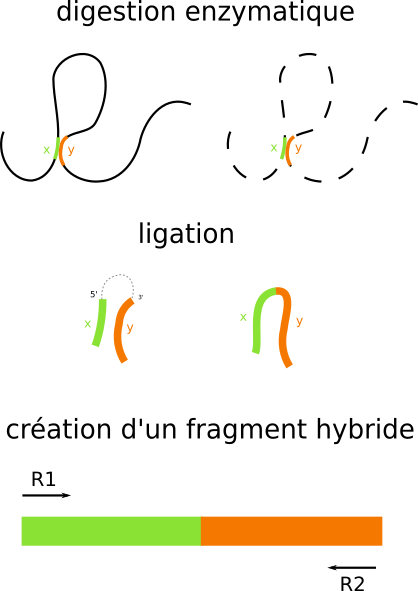
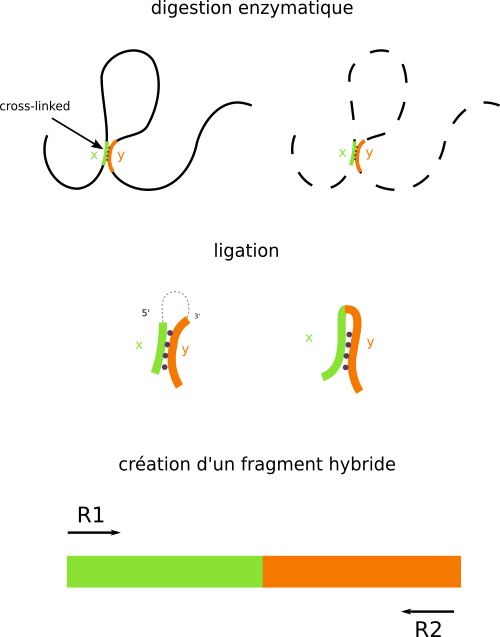
ajout conclusion

diff --git a/content/tad.md b/content/tad.md
@@ -1,18 +1,18 @@
-Title: Les T.A.D et l'organisation spatiale du génome
+Title: Les TADs et l'organisation spatiale du génome
 Slug: tad
 Date: 2018-03-27 21:51:09
-Modified: 2018-03-27 21:51:09
-Tags: 
-Category: 
+Modified: 2018-05-07 19:32:01
+Tags: tads,ngs,hi-c
+Category: biologie
 Author: Sacha schutz
 Summary: 
 Status: Draft
 
-Pendant la [mitose](https://fr.wikipedia.org/wiki/Mitose), l'ADN des cellules [eucaryotes](https://fr.wikipedia.org/wiki/Eukaryota) est bien  organisé sous la forme de chromosomes. Alors que le reste du temps, pendant l'[interphase](https://fr.wikipedia.org/wiki/Interphase), ce qu'on appelle la [chromatine](https://fr.wikipedia.org/wiki/Chromatine) ressemble davantage à une boule de spaghetti désorganisée et emmêlée de façon aléatoire.    
-Aujourd'hui, les technologies de [Chromatin Conformation Capture](https://en.wikipedia.org/wiki/Chromosome_conformation_capture) nous révèlent l'organisation spatiale de cette chromatine qui est en réalité loin d'être aléatoire, mais plutôt organiser de façon fonctionnelle. C'est ce que nous allons découvrir tout de suite avec les [T.A.D](https://en.wikipedia.org/wiki/Topologically_associating_domain) (Topology Assocation Domain).
+Lors de la [mitose](https://fr.wikipedia.org/wiki/Mitose), l'ADN des cellules [eucaryotes](https://fr.wikipedia.org/wiki/Eukaryota) s'organise en [chromosomes](https://fr.wikipedia.org/wiki/Chromosome) condensés et bien délimités. C'est l'image que nous avons tous d'un chromosome. Mais le reste du temps, pendant l'[interphase](https://fr.wikipedia.org/wiki/Interphase), ces chromosomes ressemblent davantage à une boule de spaghetti emmêlée dans tous les sens: Ce qu'on appelle la [chromatine](https://fr.wikipedia.org/wiki/Chromatine).   
+Aujourd'hui, les technologies de [Capture de Conformation des Chromosomes](https://en.wikipedia.org/wiki/Chromosome_conformation_capture) nous révèlent l'organisation spatiale de cette chromatine, qui en réalité semble être loin de l'anarchie mais plutôt organisé de façon fonctionnelle. C'est ce que nous allons découvrir tout de suite avec les [TADs](https://en.wikipedia.org/wiki/Topologically_associating_domain) (Topology Assocation Domain).
 
-## Capturer la conformation de la chromatine
-Il existe toute une série de nouvelle technologie permettant d'évaluer l'organisation spatiale du génome pendant l'interphase. C'est la [Capture de Conformation de la Chromatine (Chromatin Conformation Capture)](https://en.wikipedia.org/wiki/Chromosome_conformation_capture) . Cette méthode se décline sous plusieurs formes que vous trouverez sous le nom de [(3C,4C,5C,HiC,ChiA-PET)](https://en.wikipedia.org/wiki/Chromosome_conformation_capture#Original_methods). Elle repose toutes sur le même principe qui est d'identifier sur la chromatine, des régions en contact physique.   
+## Analyser l'organisation spatiale de la chromatine
+Il existe toute une famille de technologies permettant d'évaluer l'organisation spatiale des chromosomes au moment de l'interphase. C'est la [Capture de Conformation des chromosomes (Chromosom Conformation Capture)](https://en.wikipedia.org/wiki/Chromosome_conformation_capture). Cette méthode se décline sous plusieurs formes que vous trouverez sous le nom de [(3C,4C,5C,HiC,ChiA-PET)](https://en.wikipedia.org/wiki/Chromosome_conformation_capture#Original_methods). Elles reposent toutes sur le même principe qui est d'identifier sur la chromatine, des régions en contact physique. 
 Imaginez la chromatine, comme un long ruban d'ADN, formant plein de boucles en se repliant sur elle même. Par ces technologies, vous allez pouvoir savoir qu'une région **x** de ce ruban est en contact physique avec une autre région **y**.   
 
 
@@ -24,73 +24,89 @@ Imaginez la chromatine, comme un long ruban d'ADN, formant plein de boucles en s
 
 ### Comment ça fonctionne ? 
 L'idée générale consiste à capturer les deux régions d'ADN en contact (**x** et **y**) et construire un fragment d'ADN hybride contenant le fragment **x** à une extrémité et le fragment **y** de l'autre (Figure 2). Ce fragment hybride est alors identifié par différents techniques de biologie moléculaire.            
-Tout d'abord, les régions de contact sont figées en créant des liaisons covalentes grâce à du [formaldéhyde](https://en.wikipedia.org/wiki/Formaldehyde). C'est l'étape du *cross-linking*. L'ADN est ensuite digéré avec des [enzymes de restriction](https://fr.wikipedia.org/wiki/Enzyme_de_restriction) pour ne garder que les régions de contact. On réalise alors une [ligation](https://fr.wikipedia.org/wiki/Ligase) des extrémités du cross-link pour obtenir des fragments d'ADN hybrides.  
-Ces fragments sont identifiés par différentes méthodes de biologie moléculaire. C'est ce qui fait la spécifiée de la méthode. Par exemple, la méthode 3C est une simple [PCR](https://fr.wikipedia.org/wiki/R%C3%A9action_en_cha%C3%AEne_par_polym%C3%A9rase) tandis que la méthode [Hi-C](https://en.wikipedia.org/wiki/Chromosome_conformation_capture#Hi-C_(all-vs-all)) est un [séquençage haut débit (voir mon billet)](ngs.html) d'un ensemble de fragments obtenus à partir d'un génome. C'est cette dernière que je vais détailler.
+Tout d'abord, les régions de contact sont figées en créant des liaisons covalentes grâce à du [formaldéhyde](https://en.wikipedia.org/wiki/Formaldehyde). C'est l'étape du *cross-linking*. L'ADN est ensuite digéré avec des [enzymes de restriction](https://fr.wikipedia.org/wiki/Enzyme_de_restriction) pour ne garder que les régions de contact. On réalise alors une [ligation](https://fr.wikipedia.org/wiki/Ligase) des extrémités du cross-link pour obtenir des fragments d'ADN hybrides. 
+Ces fragments peuvent alors être identifiés par les différentes méthodes de biologie moléculaire. Par exemple, la méthode 3C est une simple [PCR](https://fr.wikipedia.org/wiki/R%C3%A9action_en_cha%C3%AEne_par_polym%C3%A9rase) tandis que la méthode [Hi-C](https://en.wikipedia.org/wiki/Chromosome_conformation_capture#Hi-C_(all-vs-all)) est un [séquençage haut débit](ngs.html) de l' ensemble de fragments hybrides obtenus à partir d'un génome. C'est cette dernière que je vais détailler.
 
 <div class="figure">
     <img src="../images/tad/methode.png" />
-    <div class="legend">Figure 2. D'abord fixation des régions de contact avec du formaldéhyde puis digestion de l'ADN. Grâce à une ligase, un fragment hybride est construit qui pourra être séquencer en <a href="ngs.html">NGS</a>. Lors d'un séquençage <a href="https://www.illumina.com/science/technology/next-generation-sequencing/paired-end-vs-single-read-sequencing.html">illumina paired-end</a>, le read R1 correspondra à la région x et le read R2 à la région y.</div>
+    <div class="legend">Figure 2. Fixation des régions de contact avec du formaldéhyde (crosslinking) puis digestion de l'ADN avec une enzyme de restriction. Grâce à une ligase, les deux extrémité du cross-link sont reliés. Après un reverse crosslinking, le fragment hybride est obtenue. Celui-ci va pouvoir être séquencé en paired-end sur de  <a href="https://www.illumina.com/science/technology/next-generation-sequencing/paired-end-vs-single-read-sequencing.html">l'Illumina</a>. Le read R1 correspondra à la région x et le read R2 à la région y.</div>
 </div>
 
 
-### Methode Hi-C
-À partir de la méthode décrite ci-dessous, on va pouvoir créer une [libraire](ngs.html) de séquençage. C'est-à-dire générer un ensemble de fragments hybrides correspondant à l'ensemble des zones de contact de la chromatine. Cette librairie peut alors être séquencée sur [Illumina](https://fr.wikipedia.org/wiki/Illumina) qui a comme particularité de faire du [séquençage en paire](https://www.france-genomique.org/spip/spip.php?article235) *(paired-end)*. C'est-à-dire pouvoir lire un fragment d'ADN des deux côtés. Et c'est là tout l'intérêt. Pour chaque fragment d'ADN lu, nous obtenons une paire de read **R1** et **R2** correspondant aux deux régions de contact **x** et **y** (Figure 2). chaque read est aligné indépendamment sur un génome de référence afin de leurs attribué des [coordonnées génomiques](naviguer-dans-votre-adn.html). Et connaissant les pairs, nous pouvons enfin savoir si une région **x** et un contact avec une région **y**.
+### Méthode Hi-C
+À partir de la méthode décrite ci-dessous, on va pouvoir créer une [libraire](ngs.html) de séquençage. C'est-à-dire générer un ensemble de fragments hybrides correspondant à l'ensemble des zones de contact de la chromatine. Cette librairie peut alors être lu sur un séquenceur [Illumina](https://fr.wikipedia.org/wiki/Illumina) qui a la particularité de faire du [séquençage en paire](https://www.france-genomique.org/spip/spip.php?article235) *(paired-end)*. C'est-à-dire pouvoir lire un fragment d'ADN dans les deux sens. Pour chaque fragment d'ADN lu, nous obtenons une paire de read **R1** et **R2** qui correspondent aux deux régions de contact **x** et **y** (Figure 2). On aligne alors ces reads sur [le génome de référence](naviguer-dans-votre-adn.html) afin de leurs attribuer des coordonnées génomique. Et connaissant les pairs de reads, nous pouvons enfin savoir si une région **x** et un contact avec une région **y**.   
 Par exemple, si dans nos données, il existe un read **R1** s'alignant sur le gène *A* et un read **R2** s'alignant sur le gène *B*, nous pouvons "conclure" qu'il y a interaction entre le gène *A* et le gène *B*. 
 
 
 ### Visualiser les données Hi-C
-Pour représenter l'ensemble des régions de contact provenant d'une expérience Hi-C, on utilise une carte de chaleur ([heatmap](https://en.wikipedia.org/wiki/Heat_map)). Cette matrice a comme dimensions des régions chromosomiques de taille fixe et comme valeur le nombre de paires de reads observées entre deux régions. Plus la couleur d'une cellule est rouge, et plus il y a d'interaction entre les deux régions correspondant à cette cellule.   
-La figure 3 gauche, montre comment construire une *heatmap* pour un chromosome. La figure 3 droite,  montre une *heatmap* sur des données réelles Hi-C pour le chromosome 14. La diagonale rouge vif signifie que les régions très proches dans la séquence, sont en contact physique, ce qui semble logique. Notons par ailleurs que la matrice est symétrique. En effet, "**x**" interagit avec "**y**", c'est la même chose qu’"**y**" interagit avec "**x**". Pour cette raison, on préfère représenter la moitié de la matrice sous forme d'un triangle (figure 4).
+Pour représenter l'ensemble des régions de contact provenant d'une expérience Hi-C, on utilise une carte de chaleur ([heatmap](https://en.wikipedia.org/wiki/Heat_map)). Cette carte est une matrice n x n montrant le nombre d'interaction entre deux positions donnée du même chromosome. La technologie ne permettant pas d'avoir une résolution à la base exacte, les positions sont des intervalles de taille fixe. 
+La valeur de chaque cellule est le nombre de paires de reads entre deux positions données. Plus la couleur d'une cellule est rouge, et plus il y a d'interaction entre les deux positions correspondant à cette cellule.   
+La figure 3 gauche, montre comment construire une *heatmap* pour un chromosome. La figure 3 droite,  montre une *heatmap* sur des données réelles Hi-C pour le chromosome 14. La diagonale rouge vif signifie que les régions très proches dans la séquence, sont en contact physique, ce qui semble logique. Notons par ailleurs que la matrice est symétrique. En effet, "**x**" interagit avec "**y**", est équivalent à "**y**" interagit avec "**x**". Pour cette raison, on préfère représenter les données Hi-C par une demi *heatmap*, ce qui donne un triangle (figure 4).
 
 
 <div class="figure">
     <img src="../images/tad/tad_correlation_matrix.png" />
-    <div class="legend">Figure 3. Gauche: Le chromosome est découpé en région de taille fixe. Après alignement, chaque read est associé à une région. On comptabilise alors le nombre de paires existants pour deux régions données. Droite: Donnée réelle Hi-C sur le chromosome 14. Notez la symétrie de la matrice autour de la diagonale ainsi qu'une allure en damier. </div>
+    <div class="legend">Figure 3. Gauche: Le chromosome est découpé en intervalle de taille fixe. Après alignement, chaque read est associé à un intervalle. On comptabilise alors le nombre de paires existants pour deux intervalles données. Sur la figure de gauche, il y a 2 paires entre les deux extrémités "p" et une paire entre l'extrémité "p" et "q". Droite: Donnée réelle Hi-C sur le chromosome 14. Notez la symétrie de la matrice autour de la diagonale ainsi qu'une allure en damier. </div>
 </div>
 
-##  Mise en évidence des TADs
+##  Les TADs
 
-En regardant la matrice de plus près (Figure 4), des triangles d'allure fractale ressortent clairement. Ces triangles correspondent à un ensemble de régions qui interagissent tous ensemble mais qui sont isolées du reste. Ces domaines, ce sont nos fameux [TAD (Topologically associating domain)](https://en.wikipedia.org/wiki/Topologically_associating_domain). Imaginez-les comme des boules de noeud sur notre ruban D'ADN. Chaque noeud contient des régions qui interagissent avec les autres régions de ce même noeud.
+En regardant la matrice de plus près (Figure 4), des triangles d'allure fractale ressortent clairement. Ces triangles correspondent à un ensemble de régions qui interagissent tous ensemble mais qui sont isolées du reste. Ces domaines, ce sont nos fameux [TAD (Topologically associating domain)](https://en.wikipedia.org/wiki/Topologically_associating_domain). Imaginez-les comme des boules de noeud sur notre ruban D'ADN. Chaque noeud contient des régions qui interagissent avec les autres régions de ce même noeud. Deux TADs sont magnifiquement illustrés par mes soins en bas de la figure 4.
 
 <div class="figure">
     <img src="../images/tad/tad_ex.png" />
-    <div class="legend">Figure 4. La région x,y et z sont à egal distance l'un de l'autre. Cependant x et y appartiennent au même TAD tandis que z appartient à un autre différent. </div>
+    <div class="legend">Figure 4. Visualisation d'une région du chromosome 3. Les TADs sont des domaines qui interagissent et sont observés ici par des triangles rouges. Sur cette figure, la région x,y et z sont à egal distance l'un de l'autre. Cependant x et y appartiennent au même TAD tandis que z appartient à un autre différent. </div>
 </div>
 
 
-### La fonction des TADs 
-Aujourd'hui, la fonction des [TAD](https://en.wikipedia.org/wiki/Topologically_associating_domain) n'est pas totalement élucidée. Mais il est clair qu'ils jouent un rôle important dans la [régulation de l'expression des gènes](https://fr.wikipedia.org/wiki/R%C3%A9gulation_de_l%27expression_des_g%C3%A8nes). Nous savons depuis longtemps que les gènes sont régulés par des séquences [promotrices](https://fr.wikipedia.org/wiki/Promoteur_(biologie)) situées amont des gènes. Mais il existe aussi des régions très éloignées du gène qui peuvent moduler la transcription. Ce sont les [amplificateurs (enhancers)](https://fr.wikipedia.org/wiki/Amplificateur_(biologie)) et les [inactivateurs (silencers)](https://fr.wikipedia.org/wiki/Inactivateur) qui respectivement activent ou répriment la [transcription](https://fr.wikipedia.org/wiki/Transcription_(biologie)). Par exemple, en repliant l'ADN dans l'espace, l'enhancer et le promoteur vont pouvoir interagir et moduler la transcription.   
+### Fonction des TADs 
+Aujourd'hui, la fonction des [TAD](https://en.wikipedia.org/wiki/Topologically_associating_domain) n'est pas totalement élucidée. Mais il est clair qu'ils jouent un rôle important dans la [régulation de l'expression des gènes](https://fr.wikipedia.org/wiki/R%C3%A9gulation_de_l%27expression_des_g%C3%A8nes). Nous savons depuis longtemps que les gènes sont régulés par des séquences [promotrices](https://fr.wikipedia.org/wiki/Promoteur_(biologie)) situées en amont des gènes. Mais il existe aussi des régions très éloignées du gène qui peuvent moduler la transcription. Ce sont les [amplificateurs (enhancers)](https://fr.wikipedia.org/wiki/Amplificateur_(biologie)) et les [inactivateurs (silencers)](https://fr.wikipedia.org/wiki/Inactivateur) qui respectivement activent ou répriment la [transcription](https://fr.wikipedia.org/wiki/Transcription_(biologie)). Par exemple, en repliant l'ADN dans l'espace, l'enhancer et le promoteur vont pouvoir interagir et moduler la transcription (Figure 5).   
 
 <div class="figure">
     <img src="../images/tad/regulation.png" />
     <div class="legend">Figure 5. Schéma de la régulation de la transcription via les amplificateurs. En se répliant, l'ADN met en contact l'amplificateur et le promoteur d'un gène</div>
 </div>
 
-Il est alors évident que pour agir, un amplificateur doit se situer dans le même TAD que ses gènes cibles. Plusieurs gènes au sein du même T.A.D peuvent ainsi être corrégulés par le même amplificateur.   
+Il est alors évident que pour agir, un amplificateur doit se situer dans le même TAD que ses gènes cibles. Plusieurs gènes au sein du même TAD peuvent ainsi être corrégulés par le même amplificateur.   
 
 <div class="figure">
     <img src="../images/tad/regulation_tad.png" />
     <div class="legend">Figure 6. Un amplificateur peut interagir avec les gènes de son TAD mais pas avec un autre. </div>
 </div>
 
-Une autre région importante dans la régulation est l'[isolateur (insulator)](https://fr.wikipedia.org/wiki/Isolateur_(biologie)) qui se situe entre deux TAD en empéchant leurs fusions. Une étude a par exemple montré qu'une délétion dans un insulator est responsable de la fusion de deux TAD en un seul. Les enhancers du premier TAD sont ainsi capable d'interagir avec un gènes du deuxième TAD. Ce qui entraine sa surexpression et une maladie chez le porteur.
+Une autre région importante dans la régulation est [l'isolateur (insulator)](https://fr.wikipedia.org/wiki/Isolateur_(biologie)) qui se situe entre deux TAD en empêchant leurs fusions. Une [étude](https://www.ncbi.nlm.nih.gov/pubmed/25701871) a par exemple montré qu'une délétion dans un isolateur est responsable de la fusion de deux TADs en un seul. Les deux noeuds bien distincts ne forment plus qu'un seul gros noeuds. Les enhancers du premier TAD sont alors capable d'interagir avec un gènes du deuxième TAD. Ce qui entraîne sa surexpression qui est délétère pour l'organisme. 
 
-### La formation des TADs
+### Formation des TADs
 La formation des TADs a été récemment mise en évidence en validant le modèle de [Loop extrusion](https://www.sciencedirect.com/science/article/pii/S2211124716305307). Ce mécanisme fait intervenir la [cohésine](https://fr.wikipedia.org/wiki/Coh%C3%A9sine) et les protéines [CTCF](https://fr.wikipedia.org/wiki/CTCF) qui reconnaissent des motifs autour des TADs, et font glisser la chromatine au travers d'anneau. Les deux vidéos suivantes vous montrent clairement la formation de ces structures.
 
 <div class="figure">
     <iframe width="560" height="315" src="https://www.youtube.com/embed/Tn5qgEqWgW8?start=23" frameborder="0" allow="autoplay; encrypted-media" allowfullscreen></iframe>
-    <div class="legend">Dans la figure ci-dessous la région x,y et z sont à egal distance l'un de l'autre. Cependant x et y appartiennent au même TAD tandis que z appartient à un autre. </div>
+    <div class="legend"> Simulation du modèle Loop extrusion </div>
 </div>
 
 
 <div class="figure">
 <iframe width="560" height="315" src="https://www.youtube.com/embed/47v3RLfLXho" frameborder="0" allow="autoplay; encrypted-media" allowfullscreen></iframe>
-    <div class="legend">Dans la figure ci-dessous la région x,y et z sont à egal distance l'un de l'autre. Cependant x et y appartiennent au même TAD tandis que z appartient à un autre. </div>
+    <div class="legend"> Visualisation de Loop extrusion temps-réel  </div>
 </div>
 
 
-https://bioinfo-fr.net/hi-c-explication-des-bases
-http://atlasgeneticsoncology.org/Educ/ArchitectChromatinID30016FS.html
-https://www.ncbi.nlm.nih.gov/pmc/articles/PMC3874846/figure/F1/
-https://www.ncbi.nlm.nih.gov/pmc/articles/PMC3874846/
+## Conclusion 
+La découverte d'une organisation spatiale de la chromatine a changé notre vision du génome. Les chromosomes étaient le support rigide de l'information génétique. Ils sont maintenant les acteurs d'une régulation fine contrôlé par l'épigénétique. L'exploration dans ce domaine nous permettra de mieux comprendre le fonctionnement du génome dans son intégralité, et justifiera certainement le séquençage complet des patients atteints de maladies génétiques.
+
+epigéniétuqe
+sequencage genome complet 
+genome dynamique
+organisation spatial du genome
+
+
+
+
+## Références
+* [La thèse d'un collègue ](https://dumas.ccsd.cnrs.fr/dumas-01628629/document)
+* [Analysis methods for studying the 3D architecture of the genome](https://www.ncbi.nlm.nih.gov/pmc/articles/PMC4556012/)
+* [Topological domains in mammalian genomes identified by analysis of chromatin interactions](https://www.nature.com/articles/nature11082)
+* [bioinformaticsinstitute](http://bioinformaticsinstitute.ru/sites/default/files/tad_calling_methods_part_1_-_sidorov_16-dec-2016.pdf)
+* [bioinfo-fr](https://bioinfo-fr.net/hi-c-explication-des-bases)
+* [Outil: TAD disease](http://3dgb.cbi.pku.edu.cn/disease/)
+* [Outil: Hi-C Browser](http://promoter.bx.psu.edu/hi-c/)
